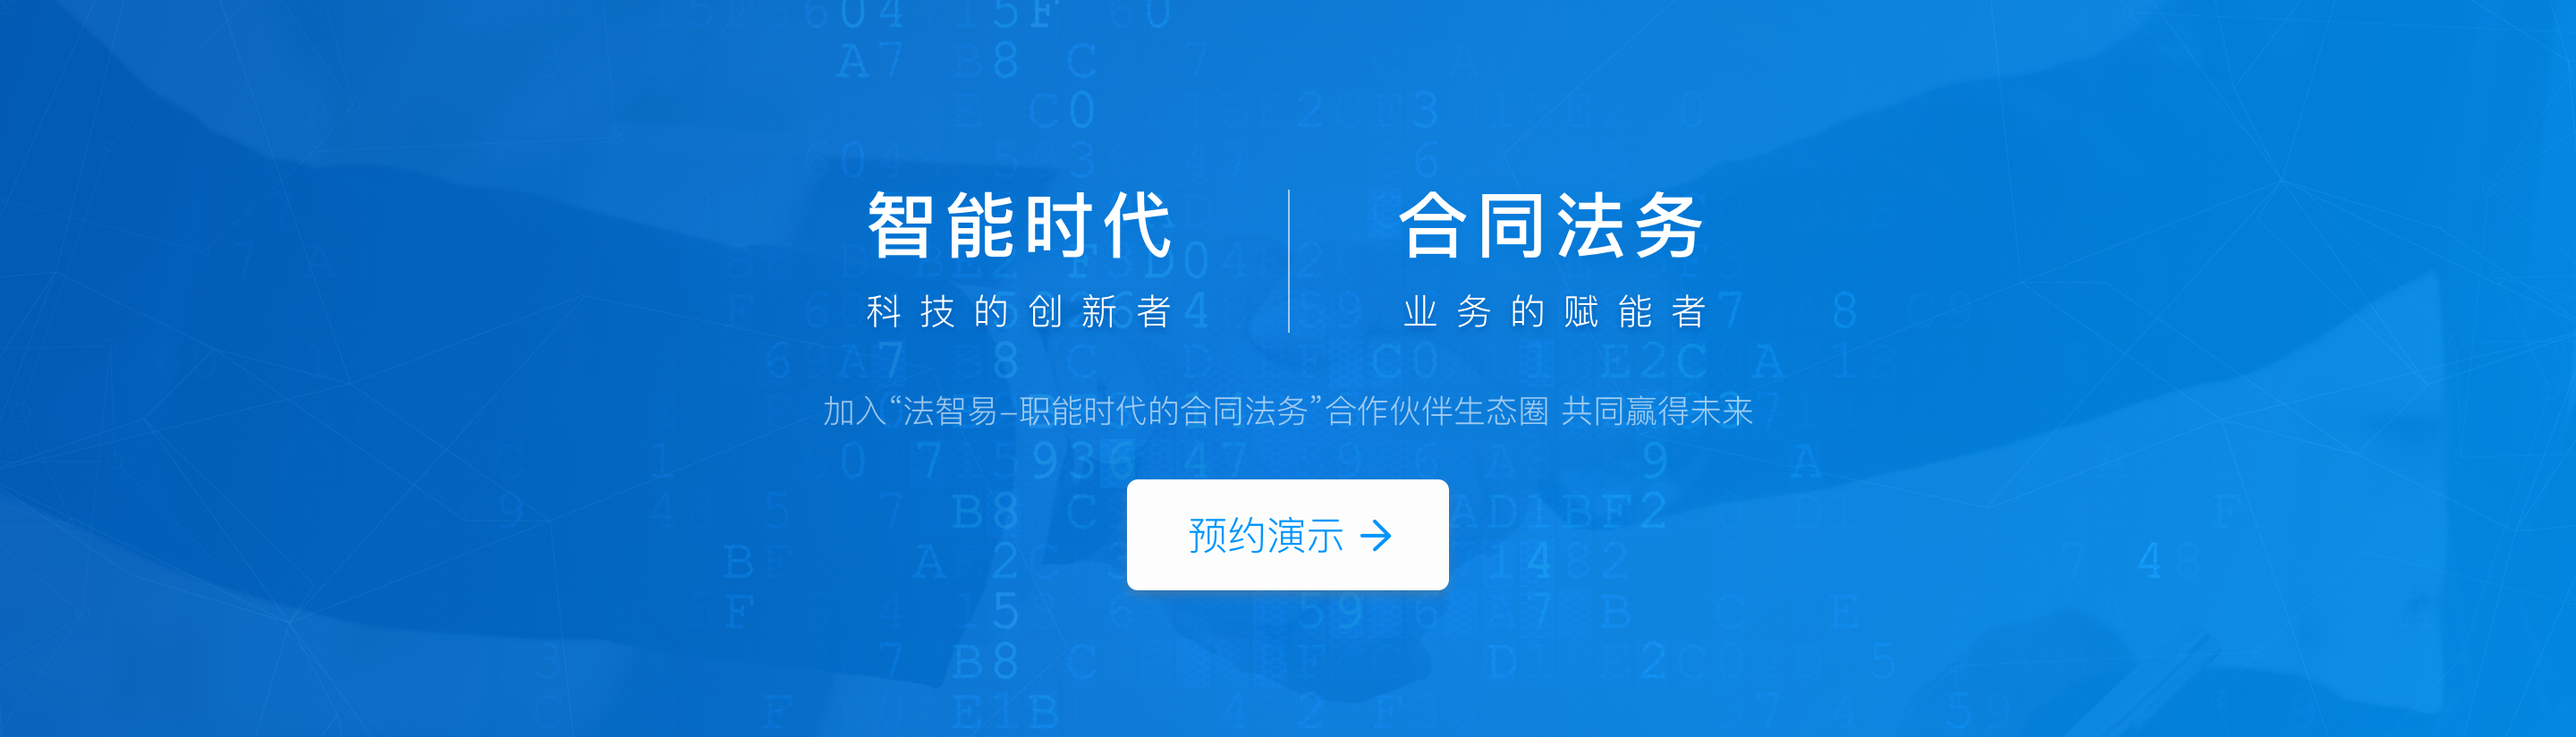
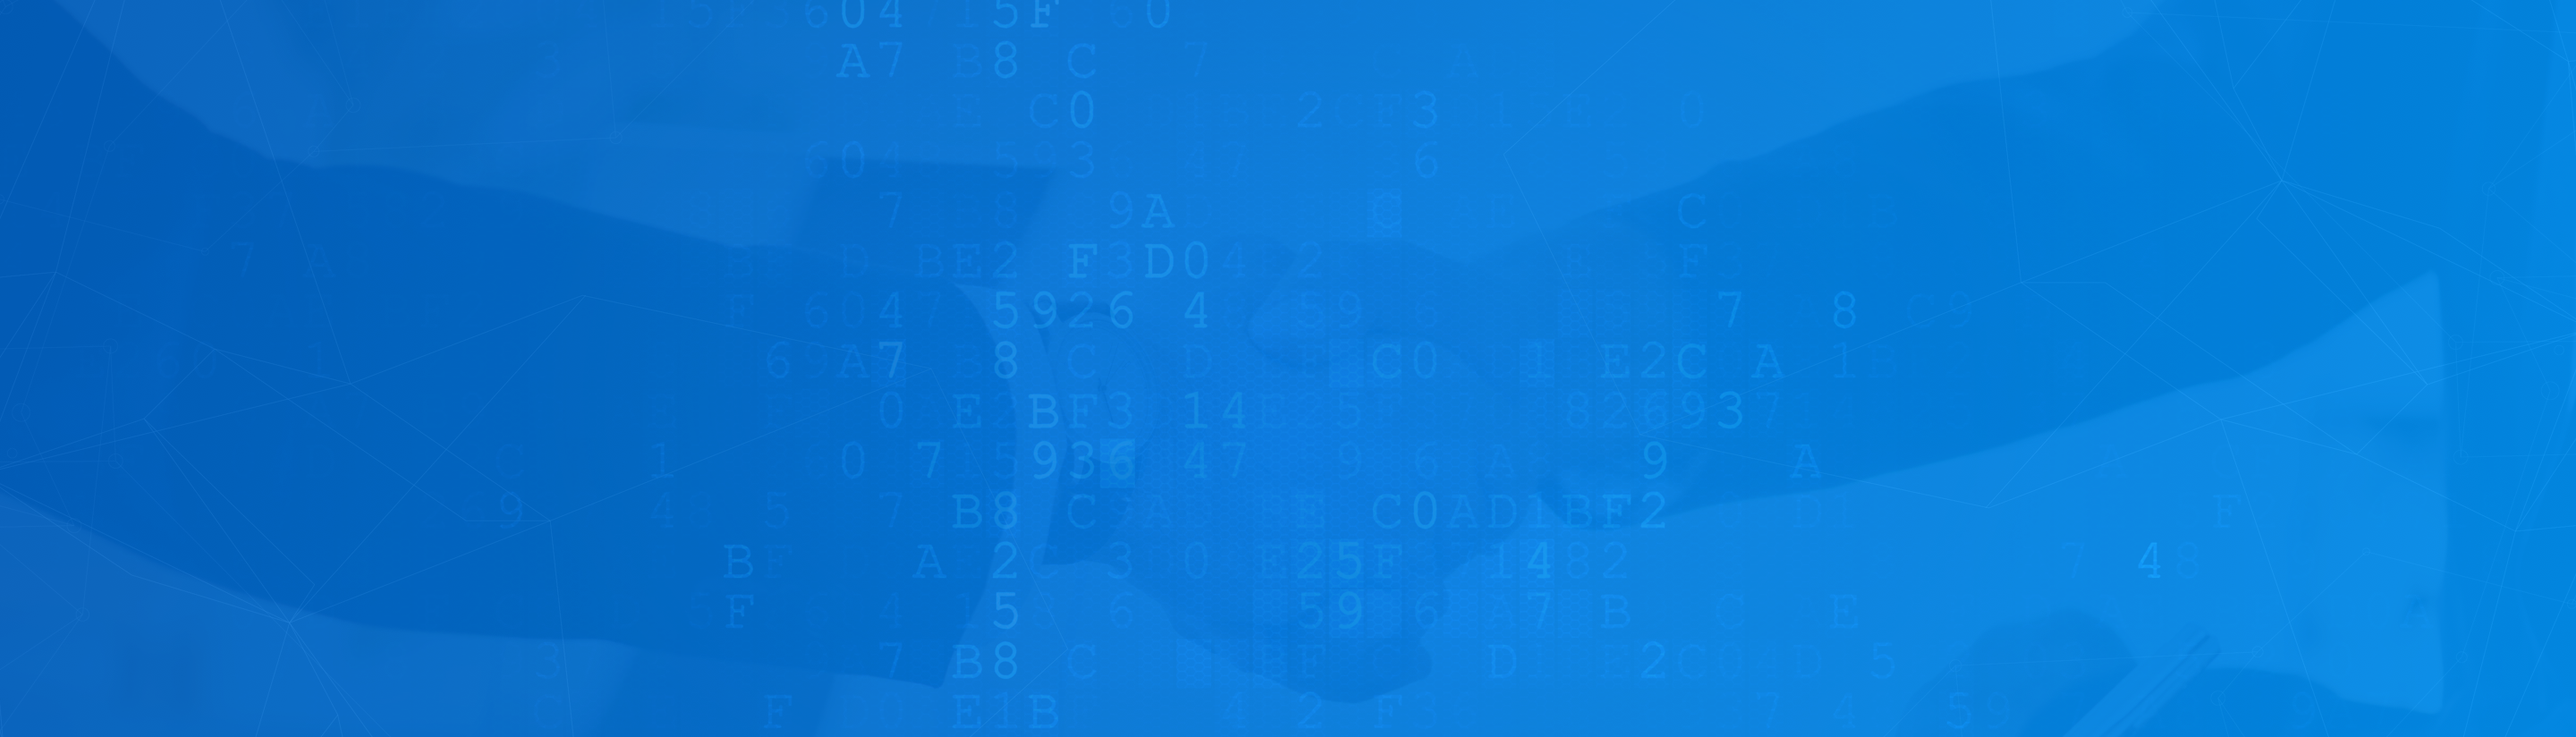
m

diff --git a/src/pc/scss/cooperation.scss b/src/pc/scss/cooperation.scss
@@ -102,7 +102,7 @@
 .pageBanner {
     text-align: center;
     background: url(../images/cooperation/bg.png) center center no-repeat;
-    background-size: auto 100%;
+    background-size: contain;
 
     .bannerConten {
         text-align: center;
@@ -114,30 +114,43 @@
     }
 }
 
-.but {
-    font-size: 22px;
-    padding-left: 34px;
-    line-height: 62px;
-    box-sizing: border-box;
-    cursor: pointer;
+.copH2 {
+    color: #fff;
+    text-align: center;
 
-    a {
-        width: 268px;
-        height: 62px;
-        background: linear-gradient(121deg, rgba(0, 102, 204, 1) 0%, rgba(0, 153, 255, 1) 100%);
-        box-shadow: 0px 3px 6px 0px rgba(121, 121, 121, 0.4);
-        border-radius: 6px;
-        color: #fff;
-        margin: 60px auto 90px;
-        display: block
-    }
+    .lr {
+        display: inline-block;
+        width: 200px;
+        padding-top: 10px;
+        position: relative;
 
-    img {
-        margin-left: 12px;
-    }
+        &:first-child {
+            &::after {
+                content: '';
+                width: 1px;
+                background-color: rgba(255, 255, 255, .6);
+                height: 65px;
+                position: absolute;
+                right: 0;
+                top: 25px;
+            }
+        }
 
-    &:hover img {
-        margin-left: 20px;
-        transition: all 0.2s ease-out;
+        .t {
+            font-size: 35px;
+            display: block;
+        }
+
+        .p {
+            font-size: 18px;
+            letter-spacing: 2px;
+            padding-top: 10px;
+            display: block;
+        }
     }
+}
+
+.bc_p {
+    opacity: .6;
+    padding-top: 20px;
 }

diff --git a/src/pc/robot.html b/src/pc/robot.html
@@ -57,7 +57,7 @@
             <div class="ov robotsction borderbtbg">
                 <h2 class="roboth2 margintp2" style="margin-bottom: 100px">法智易为您提供智能化解决方案，让合同管理更easy</h2>
                 <img class="fl" src=../images/robot/robot2-2.png width="410" height="350" />
-                <div class="fl productIntro" style="padding: 60px 0 0 70px">
+                <div class="fl productIntro" style="padding: 100px 0 0 70px">
                     <h2>RPA机器人</h2>
                     <ul>
                         <li>将规则化的业务操作，交给流程机器人，<span>释放员工的简单重复劳动</span></li>
@@ -119,8 +119,8 @@
             <div class="fl productIntro productIntro3 robotIntro3">
                 <h2>合同智能比对</h2>
                 <ul>
-                    <li>签字盖章前，比对线上审批文本终稿与线下打印终</li>
-                    <li>稿，<span>完美规避合同换页风险</span>，破解线上线下文本不一致难题</li>
+                    <li>签字盖章前，比对线上审批文本终稿与线下打</li>
+                    <li>印终稿，<span>完美规避合同换页风险</span>，破解线上线下文本不一致难题</li>
                 </ul>
             </div>
             <img class="fl robot4 padLeft60" src=../images/robot/robot4.png> </div> </div> </div> <!--E content-->

diff --git a/src/pc/cooperation.html b/src/pc/cooperation.html
@@ -22,7 +22,20 @@
         <div class="pageBanner">
             <div class="bannerConten">
                 <div class="bc_left">
-                    <a href="/applyLoding.html" target="_blank"></a>
+                    <div class="copH2">
+                        <p class="lr">
+                            <span class="t">智能时代</span>
+                            <span class="p">科技的创新者</span>
+                        </p>
+                        <p class="lr">
+                            <span class="t">合同法务</span>
+                            <span class="p">业务的赋能者</span>
+                        </p>
+                    </div>
+                    <p class="bc_p">加入”法易智-职能时代的合同法务“合作伙伴生态圈 共同赢得未来</p>
+                    <p class="but">
+                        <a href="/applyLoding.html" target="_blank">预约演示<img src="./images/arrowRight-Blue.png"
+                                width="20" height="20" alt=""></a>
                     </p>
                 </div>
             </div>

diff --git a/src/pc/scss/resourceCenter.scss b/src/pc/scss/resourceCenter.scss
@@ -43,7 +43,7 @@
 
 .list_2 {
     li {
-        height: 320px;
+        height: 300px;
     }
 }
 
@@ -51,6 +51,8 @@
     display: none;
 
     .img {
+        background: url(../images/error.png) center center no-repeat;
+
         a {
             width: 290px;
             height: 160px;
@@ -71,6 +73,7 @@
     .downLoad {
         display: flex;
         align-items: center;
+        font-size: 12px;
 
         .dow {
             width: 100px;
@@ -83,7 +86,6 @@
             box-sizing: border-box;
             cursor: pointer;
             position: relative;
-            font-size: 13px;
 
             .gotoApply {
                 display: block;
@@ -118,9 +120,11 @@
         display: block;
     }
 }
-#analyzePageList,#reportPageList{
-    ul{
-        li{
+
+#analyzePageList,
+#reportPageList {
+    ul {
+        li {
             height: 305px;
         }
     }

diff --git a/src/pc/scss/robot.scss b/src/pc/scss/robot.scss
@@ -35,7 +35,7 @@
 
 .robotList {
     width: 1050px;
-    margin: 85px auto 75px;
+    margin: 85px auto 95px;
     overflow: hidden;
 }
 
@@ -117,7 +117,8 @@
 }
 
 .margintp2 {
-    margin: 40px 0 60px;
+    margin: 60px 0;
+    font-weight: 300;
 }
 
 .robotbg1 {
@@ -393,7 +394,9 @@ li .error em {
 .productIntro h2 {
     font-size: 30px;
     color: #5B5E5F;
-    line-height: 40px
+    line-height: 40px;
+    font-weight: 300;
+    text-align: center
 }
 
 .productIntro span {
@@ -406,7 +409,8 @@ li .error em {
 
 .productIntro ul li {
     font-size: 16px;
-    line-height: 30px
+    line-height: 30px;
+    text-align: center
 }
 
 .productIntro2 {
@@ -416,7 +420,7 @@ li .error em {
 
 .productIntro2 h2,
 .productIntro3 h2 {
-    width: 300px
+    // width: 300px
 }
 
 .productIntro2 ul {

diff --git a/src/pc/scss/purchase.scss b/src/pc/scss/purchase.scss
@@ -75,12 +75,10 @@
 .pur_p_1 {
     width: 800px;
     height: 92px;
-    font-size: 24px;
-    font-family: PingFangSC-Light,
-        PingFangSC;
     font-weight: 300;
     color: rgba(91, 94, 95, 1);
     line-height: 46px;
     text-align: center;
     margin: 80px auto 60px;
+    font-size: 24px;
 }
